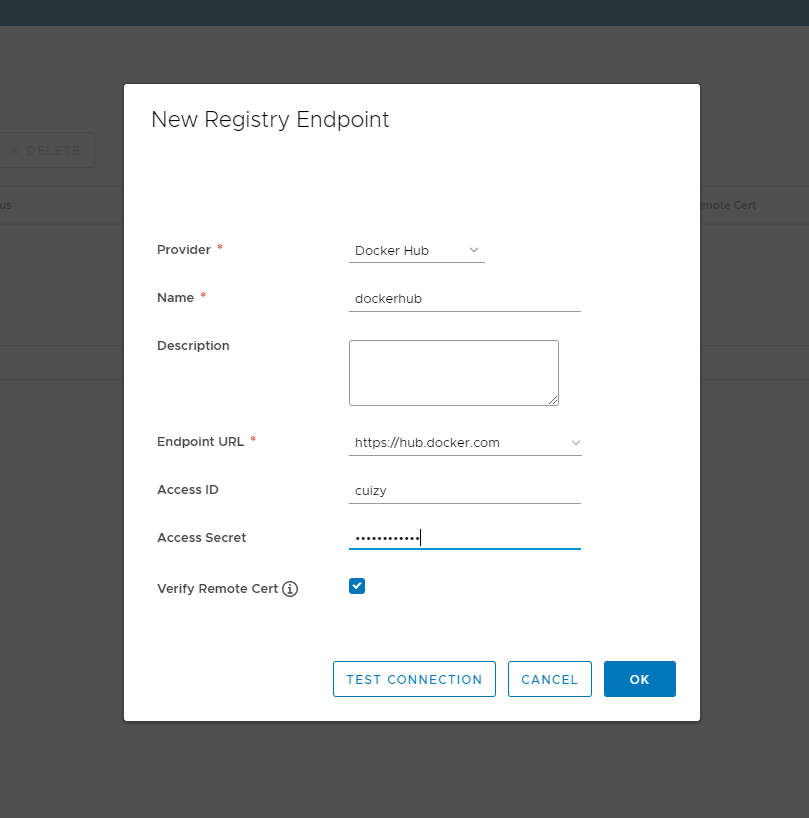
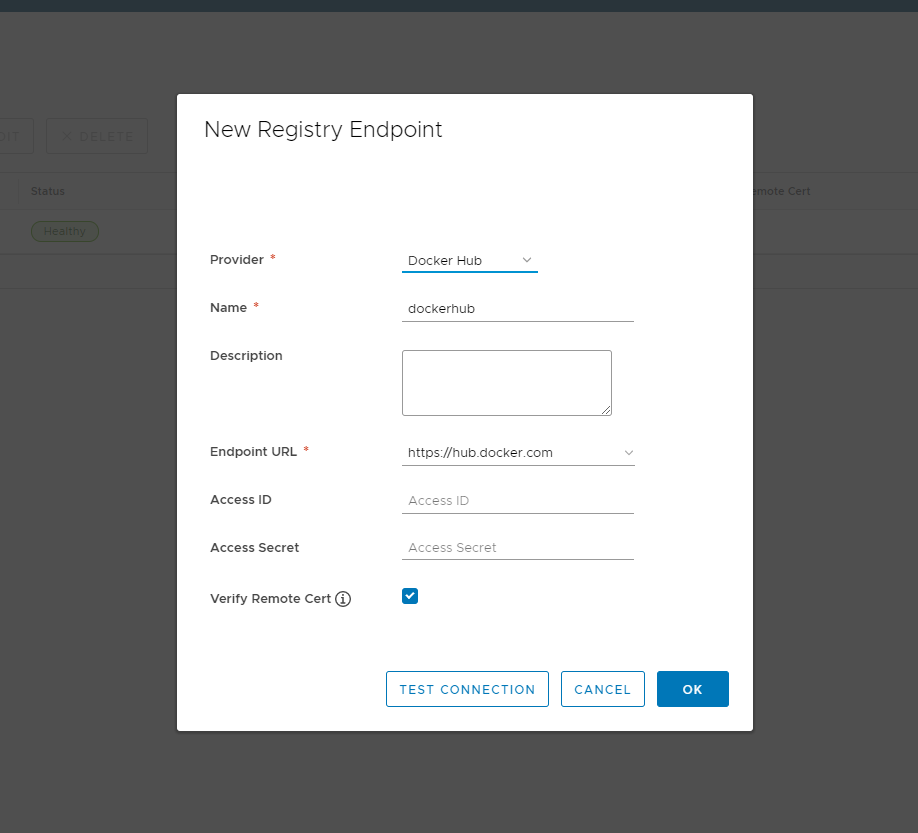
modify harbor proxy cache step1

diff --git a/doc/getting-started/network-edge/controller-edge-node-setup.md b/doc/getting-started/network-edge/controller-edge-node-setup.md
@@ -234,8 +234,8 @@ The detailed setup steps are shown as below:
    - **Provider**: the type of target registry, for example `Docker Hub`. 
    - **Name**: the name of new registry endpoint and it can be whatever you want.
    - **Endpoint URL**: the endpoint of target Registry. The endpoint url of Docker Hub is `https://hub.docker.com`.
-   - **Access ID**:  the username of target Registry. Here is a username of Docker Hub.
-   - **Access Secret**: the password of target Registry. Here is a password of Docker Hub.
+   - **Access ID**:  the username of target Registry. (Optional)
+   - **Access Secret**: the password of target Registry. (Optional)
 
 2. Create a new project with proxy cache enabled.
 
